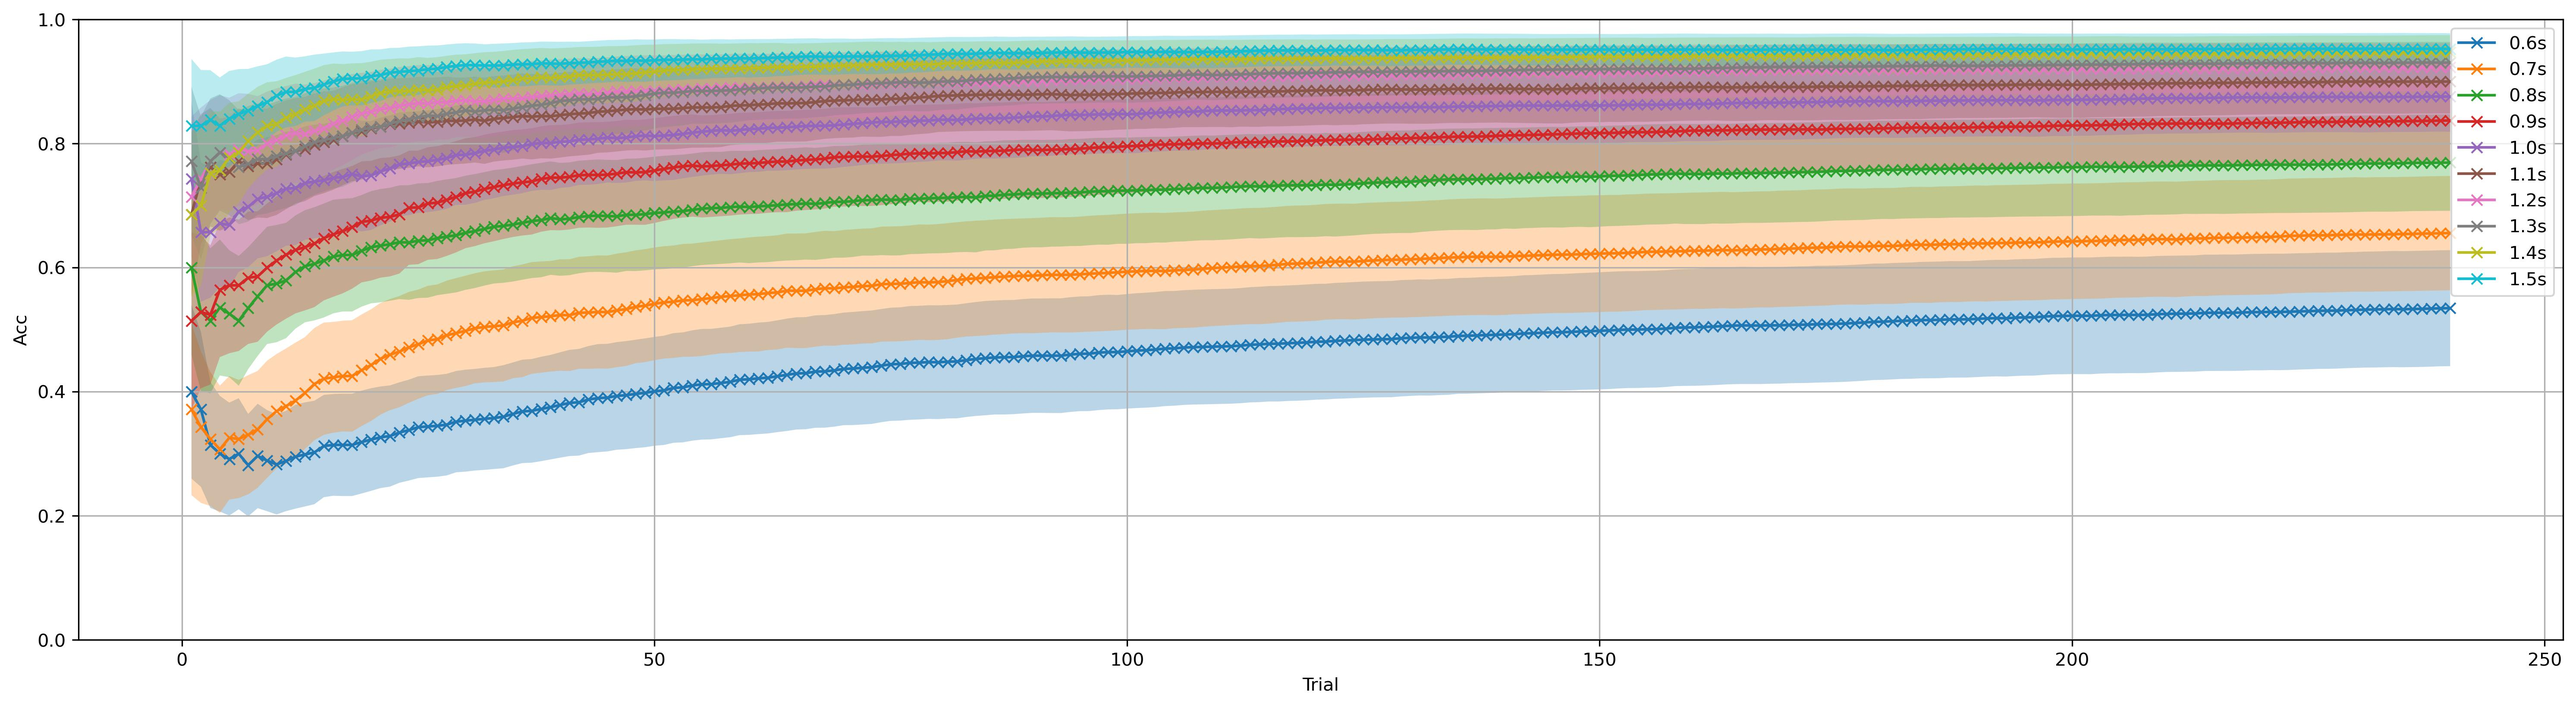
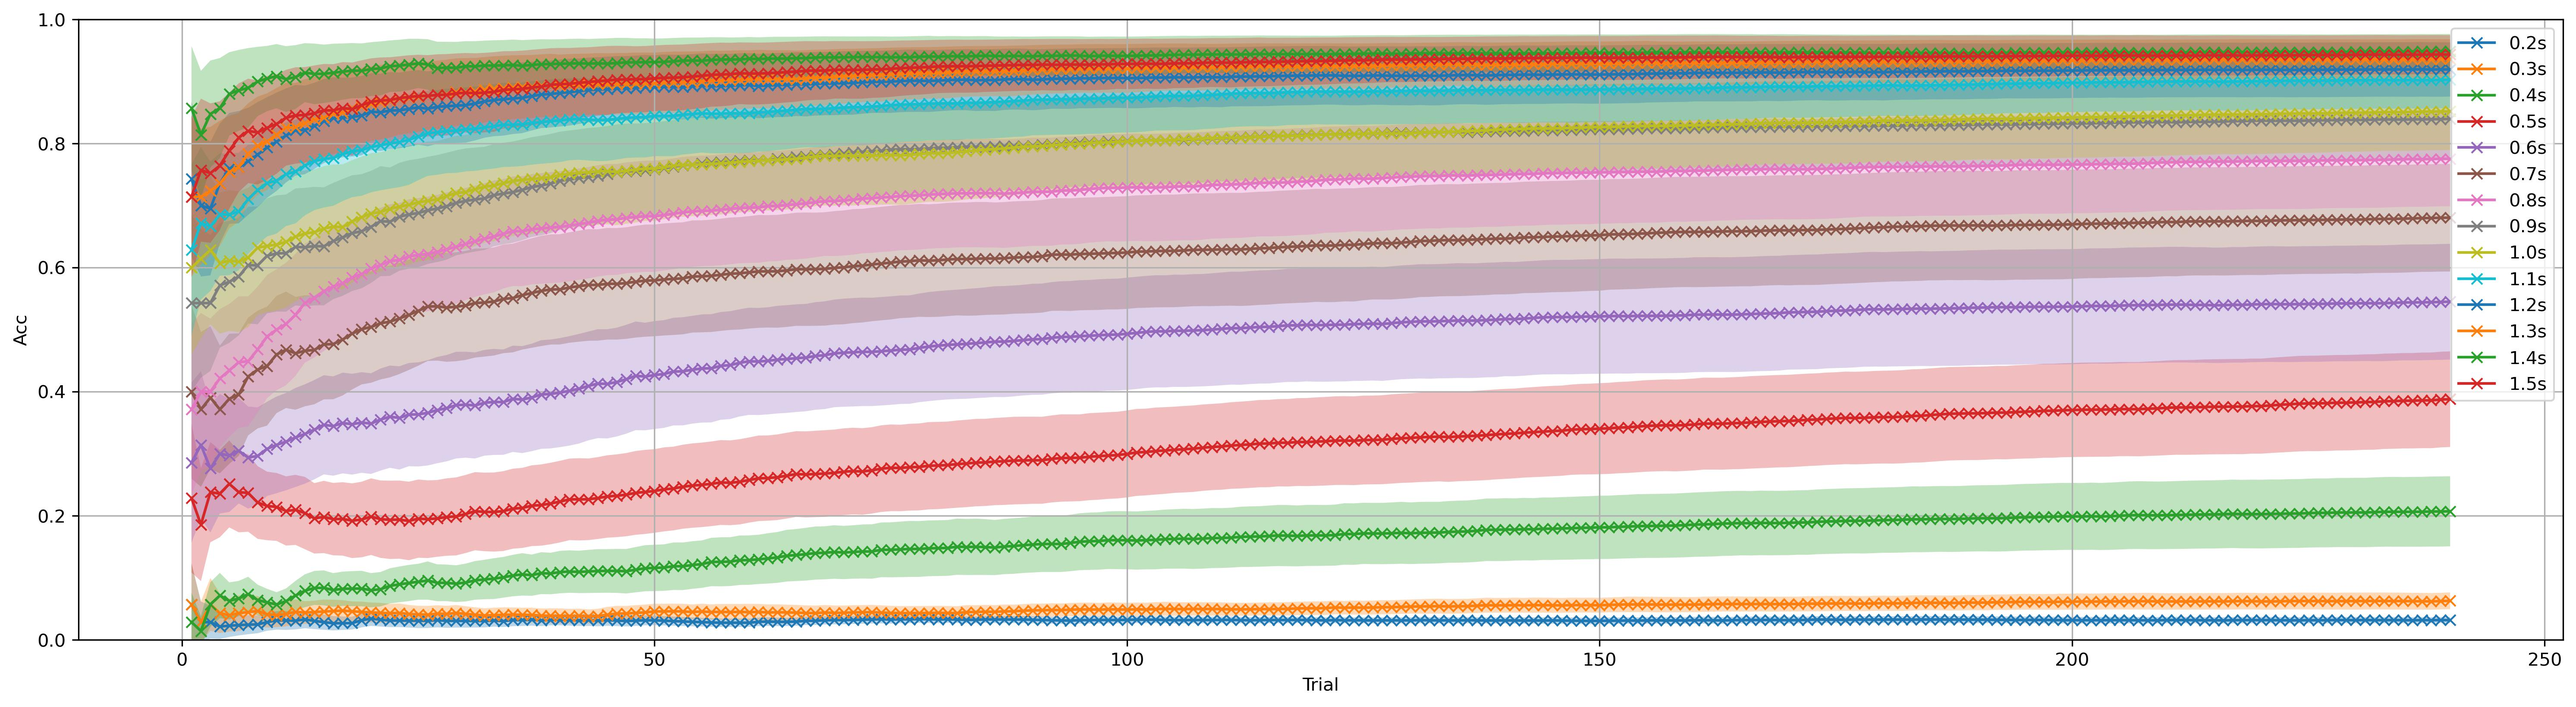
Change OACCA simulation settings

diff --git a/SSVEPAnalysisToolbox/evaluator/baseevaluator.py b/SSVEPAnalysisToolbox/evaluator/baseevaluator.py
@@ -15,6 +15,7 @@ def gen_trials_onedataset_individual_online(dataset_idx: int,
                                          tw_seq: List[float],
                                          dataset_container: list,
                                          harmonic_num: int,
+                                         repeat_num: int,
                                          trials: List[int],
                                          ch_used: List[int],
                                          t_latency: Optional[float] = None,
@@ -37,6 +38,8 @@ def gen_trials_onedataset_individual_online(dataset_idx: int,
         List of datasets
     harmonic_num : int
         Number of harmonics
+    repeat_num : int
+        Number of randon times
     trials: List[int]
         List of trial index
     ch_used : List[int]
@@ -57,27 +60,28 @@ def gen_trials_onedataset_individual_online(dataset_idx: int,
     trial_container = []
     for tw in tw_seq:
         for sub_idx in range(sub_num):
-            train_block = [0]
-            test_block = [block_idx for block_idx in range(dataset_container[dataset_idx].block_num)]
-            train_trial = TrialInfo().add_dataset(dataset_idx = dataset_idx,
-                                                    sub_idx = sub_idx,
-                                                    block_idx = train_block,
-                                                    trial_idx = trials,
-                                                    ch_idx = ch_used,
-                                                    harmonic_num = harmonic_num,
-                                                    tw = tw,
-                                                    t_latency = t_latency,
-                                                    shuffle = shuffle)
-            test_trial = TrialInfo().add_dataset(dataset_idx = dataset_idx,
-                                                    sub_idx = sub_idx,
-                                                    block_idx = test_block,
-                                                    trial_idx = trials,
-                                                    ch_idx = ch_used,
-                                                    harmonic_num = harmonic_num,
-                                                    tw = tw,
-                                                    t_latency = t_latency,
-                                                    shuffle = shuffle)
-            trial_container.append([train_trial, test_trial])
+            for _ in range(repeat_num):
+                train_block = [0]
+                test_block = [block_idx for block_idx in range(dataset_container[dataset_idx].block_num)]
+                train_trial = TrialInfo().add_dataset(dataset_idx = dataset_idx,
+                                                        sub_idx = sub_idx,
+                                                        block_idx = train_block,
+                                                        trial_idx = trials,
+                                                        ch_idx = ch_used,
+                                                        harmonic_num = harmonic_num,
+                                                        tw = tw,
+                                                        t_latency = t_latency,
+                                                        shuffle = shuffle)
+                test_trial = TrialInfo().add_dataset(dataset_idx = dataset_idx,
+                                                        sub_idx = sub_idx,
+                                                        block_idx = test_block,
+                                                        trial_idx = trials,
+                                                        ch_idx = ch_used,
+                                                        harmonic_num = harmonic_num,
+                                                        tw = tw,
+                                                        t_latency = t_latency,
+                                                        shuffle = shuffle)
+                trial_container.append([train_trial, test_trial])
     return trial_container
 
 def gen_trials_onedataset_individual_diffsiglen(dataset_idx: int,

diff --git a/demo/plot_performance_online.py b/demo/plot_performance_online.py
@@ -22,7 +22,7 @@ for dataset_idx, data_file in enumerate(data_file_list):
     for method_idx, method_name in enumerate(method_ID):
         # Plot Performance of bar plots
         # acc_store_online = acc_store[:,:,method_idx,:,:] # (subject_num, signal_len_num, method_num, trial_num, sub_trial_num)
-        # acc_store_online = np.mean(acc_store_online, 2)
+        acc_store_online = np.mean(acc_store_online, 2)
         acc_store_online = np.transpose(acc_store, (1,0,2)) 
         x_value = [i+1 for i in range(acc_store_online.shape[2])]
         legend_label = [str(tw)+'s' for tw in tw_seq]
@@ -38,7 +38,7 @@ for dataset_idx, data_file in enumerate(data_file_list):
         # fig.savefig('res/{:s}_{:s}_acc_bar.jpg'.format(sub_title[dataset_idx],method_name), bbox_inches='tight', dpi=300)
 
         # itr_store_online = itr_store[:,:,method_idx,:,:] # (subject_num, signal_len_num, method_num, trial_num, sub_trial_num)
-        # itr_store_online = np.mean(itr_store_online, 2)
+        itr_store_online = np.mean(itr_store_online, 2)
         itr_store_online = np.transpose(itr_store, (1,0,2)) 
         # fig, _ = bar_plot_with_errorbar(itr_store_online,
         #                                 x_label = 'Trial',

diff --git a/demo/benchmarkdataset_online.py b/demo/benchmarkdataset_online.py
@@ -24,11 +24,12 @@ dataset_container = [
 
 
 # Prepare train and test trials
-tw_seq = [i/100 for i in range(60,150+5,10)]
+tw_seq = [i/100 for i in range(20,150+5,10)]
 trial_container = gen_trials_onedataset_individual_online(dataset_idx = 0,
                                                              tw_seq = tw_seq,
                                                              dataset_container = dataset_container,
                                                              harmonic_num = harmonic_num,
+                                                             repeat_num = 10,
                                                              trials = all_trials,
                                                              ch_used = ch_used,
                                                              t_latency = None,
